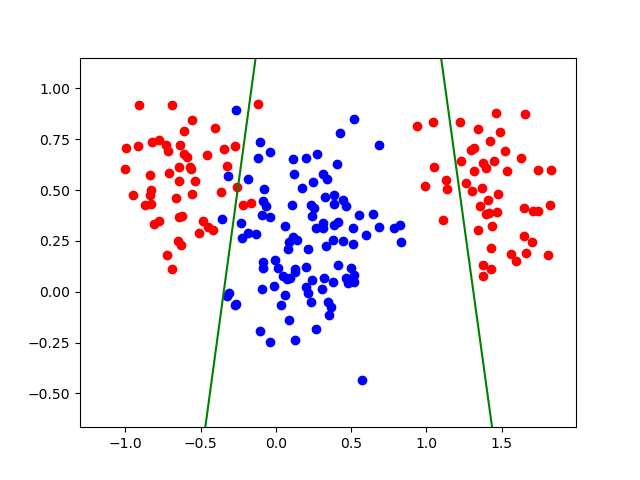
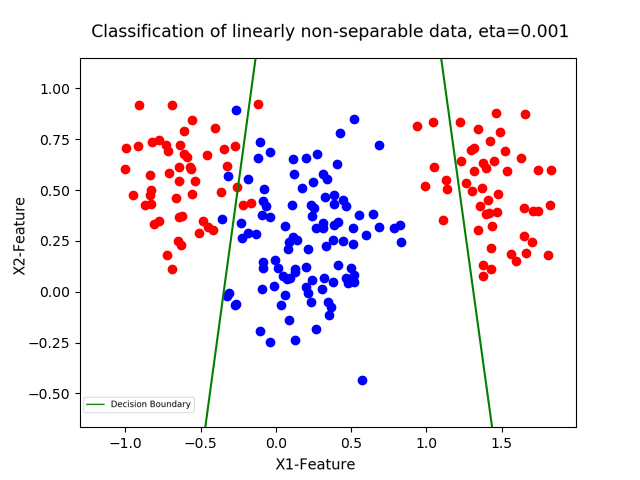
updated version

diff --git a/Lab1/2layer.py b/Lab1/2layer.py
@@ -3,8 +3,8 @@ import numpy as np
 import matplotlib.pyplot as plt
 
 # NETWORK SETTINGS
-n_epochs = 30000
-hidden_nodes = 16
+n_epochs = 20000
+hidden_nodes = 10
 features = 2  # input_nodes, for 3.2.1-3.2.2
 eta = 0.001
 output_nodes = 1
@@ -12,19 +12,17 @@ output_nodes = 1
 # DATA generation for 3.2.1
 mA = [1.0, 0.5]
 mB = [0.2, 0.3]
-sigmaA = 0.1
-sigmaB = 0.1
-data_points = 100
+sigmaA = 0.3
+sigmaB = 0.3
+n = 200
 n_classes = 2
 
-
-# WEIGHT
 
 
 def generate_weights(X):
     # Weight, W
     W = np.random.normal(1, 0.5, (hidden_nodes, X.shape[0]))
-
+    print(hidden_nodes)
     # Weight, V
     V = np.random.normal(1, 0.5, (output_nodes, hidden_nodes + 1))
     return W, V
@@ -33,30 +31,37 @@ def generate_weights(X):
 def generate_io_matrix(useBias=True):
     # np.random.seed(1000)
 
-    X = np.zeros([features + 1, data_points * 2])
+    X = np.zeros([features + 1, n * 2])
 
     # A
-    X[0, :data_points] = np.concatenate((np.random.normal(2, 1, int(data_points / 2)) * sigmaA - mA[0],
-                                         np.random.normal(2, 1, int(data_points / 2)) * sigmaA + mA[0]))
-    X[1, :data_points] = np.random.normal(0, 1, data_points) * sigmaA + mA[1]
-    X[2, :data_points] = 1 if useBias else 0
+    X[0, :n] = np.concatenate((np.random.normal(2, 1, int(n / 2)) * sigmaA - mA[0],
+                                         np.random.normal(2, 1, int(n / 2)) * sigmaA + mA[0]))
+    
+    np.random.shuffle(X[0, :n])
+
+    X[1, :n] = np.random.normal(0, 1, n) * sigmaA + mA[1]
+    X[2, :n] = 1 if useBias else 0
 
     # B
-    X[0, data_points:] = np.random.normal(0, 1, data_points) * sigmaB + mB[0]
-    X[1, data_points:] = np.random.normal(0, 1, data_points) * sigmaB + mB[1]
-    X[2, data_points:] = 1 if useBias else 0
+    X[0, n:] = np.random.normal(0, 1, n) * sigmaB + mB[0]
+    X[1, n:] = np.random.normal(0, 1, n) * sigmaB + mB[1]
+    X[2, n:] = 1 if useBias else 0
 
     # T
-    T = np.zeros(data_points * 2)
-    T[:data_points] = 1
-    T[data_points:] = -1
+    T = np.zeros(n * 2)
+    T[:n] = 1
+    T[n:] = -1
     T = phi(T)
+
+    #idx = np.random.permutation(n)
+    
+
     return X, T
 
 
 def generate_io_encoder_matrix():
-    rand = np.random.randint(features, size=data_points)
-    X = np.ones([data_points, features]) * -1
+    rand = np.random.randint(features, size=n)
+    X = np.ones([n, features]) * -1
     for i, x in enumerate(X):
         x[rand[i]] = 1
     print(X)
@@ -93,6 +98,8 @@ def phi_prim(x):
 def forward_pass(X, W, V):
     # X = np.concatenate((X, np.ones((1, X.shape[1]))))     ## Eventuellt senare
     # h_in = W @ np.concatenate((X, np.ones((1, X.shape[1])))) ###viktigt
+    #print(X.shape)
+    #print(W.shape)
     h_in = W @ X
     # h_out = np.array([phi(h_in)], [1]*X.shape[1])         ### Kommer ge error
     h_out = np.concatenate((phi(h_in), np.ones((1, X.shape[1]))))
@@ -137,24 +144,27 @@ def weight_update(delta_h, delta_o, X, W, H, V, use_momentum=False, dw=0, dv=0):
         return W, V, dw, dv
 
 
-def calculate_accuracy(o_out):
+def calculate_accuracy(o_out, testT):
     counter = 0
-    for i in range(0, data_points, 1):
-        if o_out[0, i] <= 0:
+    for i in range(len(testT)):
+        if testT[i] > 0 and o_out[0, i] > 0:
             counter += 1
-    for i in range(data_points, data_points * 2, 1):
-        if o_out[0, i] > 0:
+        elif testT[i] < 0 and o_out[0, i] < 0:
             counter += 1
+
     if counter == 0:
         return 1.0
     else:
-        return (data_points * 2 - counter) / (data_points * 2)
+        return 1.0 - ((len(testT) - counter) / len(testT))
 
 
-def two_layer_perceptron(X, T, W, V, n_epoch, x, y, use_momentum=False):
+def two_layer_perceptron(X, T, W, V, n_epoch, testX, testT, use_momentum=False, use_bell=False, x=None, y=None):
     mse = np.zeros(n_epoch)
     dw = 0
     dv = 0
+    test_accuracy = np.zeros(n_epoch)
+    train_accuracy = np.zeros(n_epoch)
+    
     for i in range(n_epoch):
         o_out, h_out = forward_pass(X, W, V)
         delta_h, delta_o = backward_pass(o_out, h_out, T, V)
@@ -162,24 +172,72 @@ def two_layer_perceptron(X, T, W, V, n_epoch, x, y, use_momentum=False):
             W, V, dw, dv = weight_update(delta_h, delta_o, X, W, h_out, V)
         else:
             W, V, dw, dv = weight_update(delta_h, delta_o, X, W, h_out, V, True, dw, dv)
-        mse[i] = MSE(T, o_out)
-        #plot_bell_3d(o_out, x, y)
+        #mse[i] = MSE(testT, o_out)
+        #if use_bell:
+            #if (i%100) == 0:
+                #plot_bell_3d(o_out, x, y)
         #print(mse[i])
+        o_out_test, h_out_test = forward_pass(testX, W, V)
+        #print(testT.shape, o_out_test.shape)
+        #print(trainT.shape, o_out_test.shape)
 
-    return W, V, dw, dv, o_out, h_out, mse
+        test_accuracy[i] = MSE(testT, o_out_test)       #calculate_accuracy(o_out_test, testT)
+        train_accuracy[i] = MSE(T, o_out)          #calculate_accuracy(o_out, T)
 
+
+    #o_out_test, h_out_test = forward_pass(testX, W, V)
+    #last_error = MSE(testT, o_out_test)
+    #last_error = calculate_accuracy(o_out_test, testT)
+    return W, V, dw, dv, o_out, h_out, train_accuracy, test_accuracy
+
+
+def plot(a1, a2, b1, b2):
+    plt.scatter(a1, a2, color="red")
+    plt.scatter(b1, b2, color="blue")
+    plt.show()
 
 def plot_data_points(X):
     plt.ylim(top=100, bottom=-100)
     plt.xlim(right=100, left=-100)
-    classAx = X[0, :data_points]
-    classAy = X[1, :data_points]
-    classBx = X[0, data_points:]
-    classBy = X[1, data_points:]
+    classAx = X[0, :n]
+    classAy = X[1, :n]
+    classBx = X[0, n:]
+    classBy = X[1, n:]
     plt.scatter(classAx, classAy, color="red")
     plt.scatter(classBx, classBy, color="blue")
+    plt.xlabel("X1-Feature")
+    plt.ylabel("X2-Feature")
+    plt.title("Classification of linearly non-separable data, eta=" + str(eta))
     plt.grid()
     #plt.show()
+
+def splitData(InputData, TargetData, A_Ratio=0.0, B_Ratio=0.0):
+
+    testA = InputData[:, :int(n * A_Ratio)]
+    trainingA = InputData[:, int(n * A_Ratio):n]
+    testB = InputData[:, n: n + int((B_Ratio * n))]
+    trainingB = InputData[:, n + int((B_Ratio * n)): n * 2]
+
+    testAT = TargetData[0:int(A_Ratio * n):1]
+    trainingAT = TargetData[int(A_Ratio * n):n:1]
+    testBT = TargetData[n:n + int(B_Ratio * n):1]
+    trainingBT = TargetData[n + int(B_Ratio * n):2 * n:1]
+
+    if B_Ratio == 0:
+        testX = testA
+        testT = testAT
+    elif A_Ratio == 0:
+        testX = testB
+        testT = testBT
+    else:
+        testX = np.concatenate((testA, testB), axis=1)
+        testT = np.concatenate((testAT, testBT))
+
+    trainingX = np.concatenate((trainingA, trainingB), axis=1)
+    trainingT = np.concatenate((trainingAT, trainingBT))
+
+    #plot(testA[0], testA[1], testB[0], testB[1])
+    return testX, testT, trainingX, trainingT
 
 
 def plot_mse(mse_array):
@@ -191,7 +249,7 @@ def plot_mse(mse_array):
     plt.ylabel("Error rate")
     plt.title("Mean Square Error for every epoch with eta = " + str(eta))  ##ändra till bättre, tack
     plt.plot(x, y, color='green', label="Mean Square Error")
-    plt.legend(loc="upper right")
+    plt.legend(loc="lower left")
     plt.show()
 
 
@@ -218,19 +276,81 @@ def plot_bell(output, x, y):
     plt.contourf(xx, yy, zz)
     plt.show()
 
-def plot_bell_3d(output, x, y):
+def plot_bell_3d(output, x, y, use_ratio=False, ratio=0.0):
     ax = plt.axes(projection="3d")
+    print(output.shape, x.shape, y.shape)
     xx, yy = np.meshgrid(x, y)
     zz = np.reshape(output, xx.shape)
     ax.plot_surface(xx, yy, zz)
-    plt.show()
-    #plt.pause(0.01)
+    #plt.show()
+    plt.pause(0.0001)
     #plt.waitforbuttonpress()
 
+def plot_accuracy(train_acc, test_acc):
+    plt.ylim(top=1, bottom=0)
+    plt.xlim(right=n_epochs, left=0)
+    epochs = np.arange(0, n_epochs)
+    plt.xlabel("Number of Epochs")
+    plt.ylabel("Mean Square Error")
+    plt.title("Mean Square Error of the function approximation \nwith " + str(hidden_nodes) + " hidden nodes and eta =" + str(eta))  ##ändra till bättre, tack
+    plt.plot(epochs, train_acc, color='green', label="MSE change for train")
+    plt.plot(epochs, test_acc, color='red', label="MSE change for test")
+
+    plt.legend(loc="upper right")
+    plt.show()
+
+def plot_for_nodes(train, test, nodes_used):
+    plt.ylim(top=1, bottom=0)
+    plt.xlim(right=24, left=0)
+    nodes = np.arange(0, nodes_used)
+    print(nodes.shape)
+    print(train.shape)
+    print(test.shape)
+    plt.xlabel("Size of hidden layer")
+    plt.ylabel("Mean Square Error")
+    plt.title("Mean Square Error for the function approximation")# \nwith " + str(hidden_nodes) + " hidden nodes and eta =" + str(eta))  ##ändra till bättre, tack
+    plt.plot(nodes, train, color='green', label="MSE change for train")
+    plt.plot(nodes, test, color='red', label="MSE change for test")
+
+    plt.legend(loc="upper right")
+    plt.show()
+
+
+def split_bell_data(X, T, test_ratio=0.2):
+    points = int(X.shape[1])
+    test_points = int(X.shape[1]*test_ratio)
+    testX = np.zeros([X.shape[0], test_points])
+    testT = np.zeros([T.shape[0], test_points])
+    trainX = np.zeros([X.shape[0], int(points-test_points)])
+    trainT = np.zeros([T.shape[0], int(points-test_points)])
+
+    for i in range(test_points):
+        testX[:, i] = X[:, i]
+        testT[0, i] = T[0, i]
+    
+    for i in range(points-test_points):
+        trainX[:, i] = X[:, i+test_points]
+        trainT[0, i] = T[0, i+test_points]
+
+    return trainX, trainT, testX, testT
 
 """ TASK 3.2.1 """
+#iterations = 25
+#for i in range(1, iterations+1):
+    #hidden_nodes = i
 #X, T = generate_io_matrix()
 #W, V = generate_weights(X)
+#plot_data_points(X)
+#plt.show()
+#testX, testT, trainingX, trainingT = splitData(X, T, 0.2, 0.2)
+#print(testX.shape)
+#print(testX.shape)
+#W, V, dw, dv, o_out, h_out, train_accuracy, test_accuracy = two_layer_perceptron(trainingX, trainingT, W, V, n_epochs, testT, testX)
+#print(error)
+#print("Iteration " + str(i) + " done.")
+
+#print(test_accuracy)
+#plot_accuracy(train_accuracy, test_accuracy)
 
 """ TASK 3.2.2 """
 #X = generate_io_encoder_matrix()
@@ -238,28 +358,45 @@ def plot_bell_3d(output, x, y):
 
 """ TASK 3.2.3 """
 #print(gauss_bell_function(1,1))
+"""
+iterations = 2
+train_acc = np.zeros(iterations+1)
+test_acc = np.zeros(iterations+1)
+for i in range(1, iterations+1):
+    hidden_nodes = i
+    X, T, x, y = generate_bell_data()
+    W, V = generate_weights(X)
+    trainX, trainT, testX, testT = split_bell_data(X, T, 0.2)
+
+    
+    W, V, dw, dv, o_out, h_out, train_accuracy, test_accuracy = two_layer_perceptron(trainX, trainT, W, V, n_epochs, testX, testT, False, True, x, y)
+    train_acc[i-1] = train_accuracy
+    test_acc[i-1] = test_accuracy
+"""
 X, T, x, y = generate_bell_data()
 W, V = generate_weights(X)
-
-""" Training """
-W, V, dw, dv, o_out, h_out, mse_array = two_layer_perceptron(X, T, W, V, n_epochs, x, y, True)
+trainX, trainT, testX, testT = split_bell_data(X, T, 0.2)
+W, V, dw, dv, o_out, h_out, train_accuracy, test_accuracy = two_layer_perceptron(trainX, trainT, W, V, n_epochs, testX, testT, False, True, x, y)
 #print(o_out)
+plot_accuracy(train_accuracy, test_accuracy)
+#plot_for_nodes(train_acc, test_acc, iterations+1)
 
 """ Plotting """
 #plot_data_points(X)
 #for w in W:
-#    plotLine(w)
-#plt.grid()
-#plt.show()
+    #plotLine(w)
+    #break
+#plt.legend(loc="lower left")
 #plt.grid()
 #plt.show()
 #plot_mse(mse_array)
-print("-------O--------")
-print(o_out)
-print("-------T--------")
-print(T)
-print("------MSE----------")
-print(mse_array)
-plot_bell(o_out, x, y)
-plot_bell_3d(o_out, x, y)
+#print("-------O--------")
+#print(o_out)
+#print("-------T--------")
+#print(T)
+#print("------MSE----------")
+#print(mse_array)
+#plot_bell(o_out, x, y)
+#plot_bell_3d(o_out, x, y)
+#plt.show()
 
